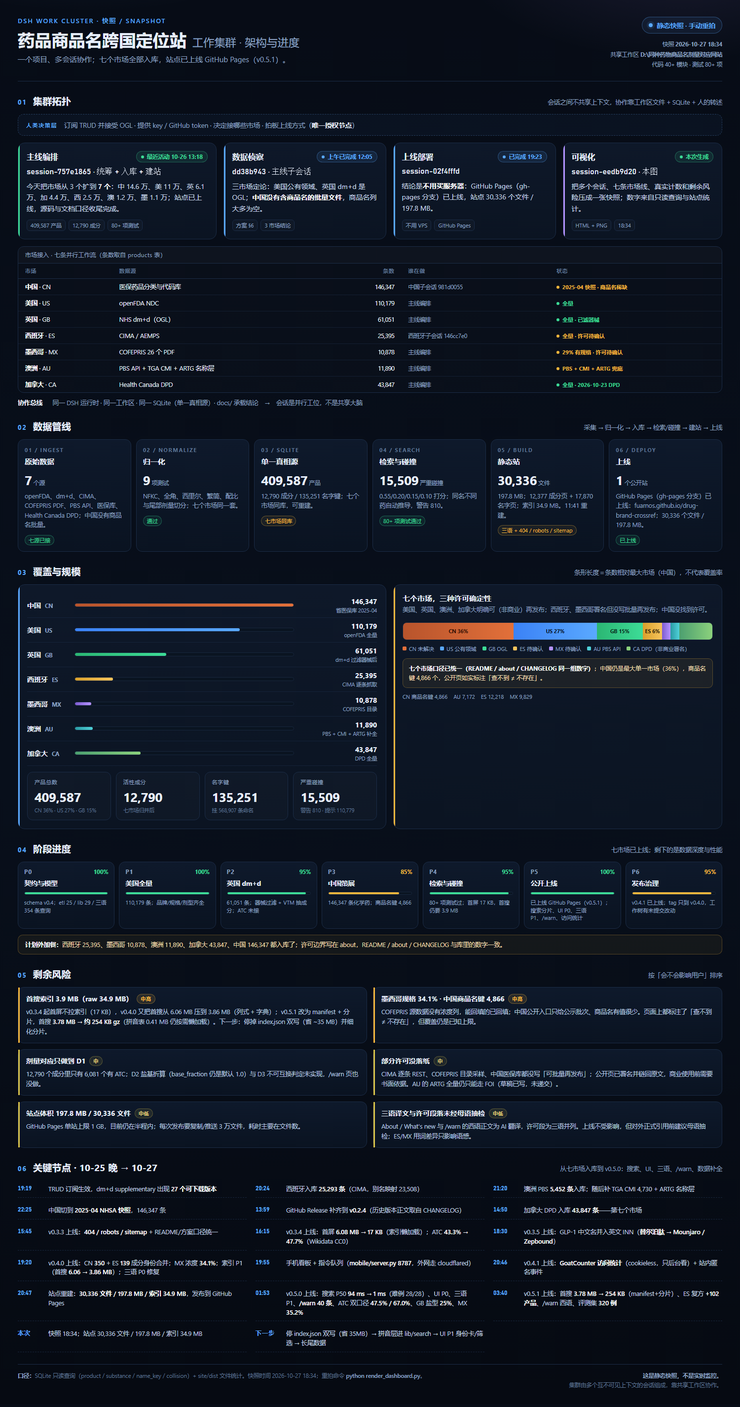
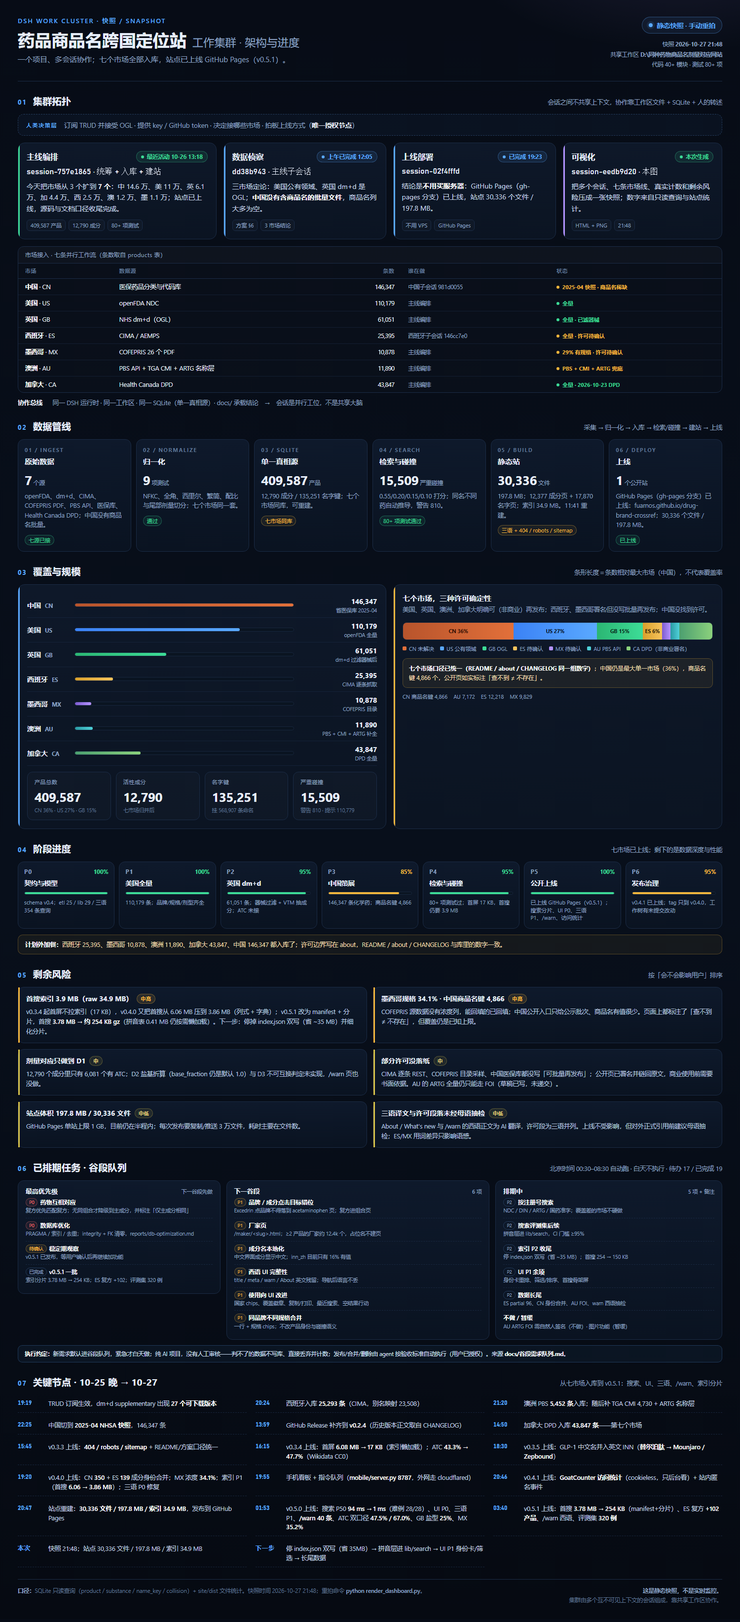
v0.5.2: fix blank warnings on zh/es (lang-block display fallback)
- apply() set style.display='' which fell back to CSS .lang-block{display:none}; use explicit 'block' for matching language block
- /warn and ingredient-page warning summaries now visible in zh/es; en unchanged
- includes queue/dashboard doc updates

diff --git a/docs/工作集群-架构与进度.html b/docs/工作集群-架构与进度.html
@@ -157,6 +157,21 @@
   .risk p{font-size:12.5px;color:#b9c9e2;line-height:1.6;margin-top:6px}
   .risk p b{color:#fff;font-weight:600}
 
+  .queue{display:grid;grid-template-columns:1fr 1.3fr 1.12fr;gap:12px}
+  .qbox{border:1px solid var(--line);border-radius:12px;background:linear-gradient(180deg,#0e192b,#0a1321);padding:12px 15px;align-self:start}
+  .qbox h3{font-size:13px;font-weight:650;display:flex;justify-content:space-between;align-items:baseline}
+  .qbox h3 span{font-size:10.5px;color:var(--muted);font-weight:500}
+  .qitem{padding:6px 0;border-bottom:1px dashed rgba(27,44,70,.8);font-size:12px;line-height:1.45;color:#c2d2e9}
+  .qitem:last-child{border-bottom:none}
+  .qitem b{color:#fff;font-weight:600}
+  .qitem .meta{display:block;font-size:10.5px;color:var(--muted);margin-top:1px}
+  .qtag{display:inline-block;font-size:9.5px;padding:1px 6px;border-radius:999px;margin-right:5px;vertical-align:1px}
+  .qtag.hi{color:var(--red);border:1px solid rgba(255,111,111,.35);background:rgba(255,111,111,.08)}
+  .qtag.mid{color:var(--amber);border:1px solid rgba(246,183,60,.35);background:rgba(246,183,60,.08)}
+  .qtag.lo{color:var(--muted);border:1px solid var(--line2)}
+  .qpolicy{margin-top:11px;padding:9px 13px;border-radius:9px;border:1px solid rgba(90,169,255,.25);background:rgba(90,169,255,.06);font-size:11.5px;color:#cfe0f7}
+  .qpolicy b{color:#fff}
+
   .tl{display:grid;grid-template-columns:repeat(3,1fr);gap:8px 18px}
   .tl .ev{display:grid;grid-template-columns:52px 1fr;gap:10px;padding:8px 0;border-bottom:1px dashed rgba(27,44,70,.8)}
   .tl .t{font-size:12px;color:var(--blue);font-weight:700;padding-top:1px}
@@ -179,7 +194,7 @@
   <div class="snap">
     <div class="live static"><i></i>静态快照 · 手动重拍</div>
     <div class="time">
-      快照 <b>2026-10-27 18:34</b><br>
+      快照 <b>2026-10-27 21:48</b><br>
       共享工作区 <b>D:\同种药物商品名剂量对应网站</b><br>
       代码 40+ 模块 · 测试 80+ 项
     </div>
@@ -215,7 +230,7 @@
       <div class="role"><span class="name">可视化</span><span class="pill run"><i></i>本次生成</span></div>
       <div class="sid mono">session-eedb9d20 · 本图</div>
       <div class="task">把多个会话、七条市场线、真实计数和剩余风险压成一张快照；数字来自只读查询与站点统计。</div>
-      <div class="chips"><span class="chip">HTML + PNG</span><span class="chip">18:34</span></div>
+      <div class="chips"><span class="chip">HTML + PNG</span><span class="chip">21:48</span></div>
     </div>
   </div>
 
@@ -425,7 +440,39 @@
 </section>
 
 <section>
-  <div class="sec-head"><span class="no">06</span><h2>关键节点 · 10-25 晚 → 10-27</h2><span class="hint">从七市场入库到 v0.5.0：搜索、UI、三语、/warn、数据补全</span></div>
+  <div class="sec-head"><span class="no">06</span><h2>已排期任务 · 谷段队列</h2><span class="hint">北京时间 00:30–08:30 自动跑 · 白天不执行 · 待办 17 / 已完成 19</span></div>
+  <div class="queue">
+    <div class="qbox">
+      <h3>最高优先级 <span>下一谷段先做</span></h3>
+      <div class="qitem"><span class="qtag hi">P0</span><b>药物互相对应</b><span class="meta">复方优先匹配复方；无同组合才降级到主成分，并标注「仅主成分相同」</span></div>
+      <div class="qitem"><span class="qtag hi">P0</span><b>数据库优化</b><span class="meta">PRAGMA / 索引 / 去重；integrity + FK 清零，reports/db-optimization.md</span></div>
+      <div class="qitem"><span class="qtag mid">待确认</span><b>稳定期观察</b><span class="meta">v0.5.1 已发布，等用户确认后再继续加功能</span></div>
+      <div class="qitem"><span class="qtag lo">已完成</span><b>v0.5.1 一批</b><span class="meta">索引分片 3.78 MB → 254 KB；ES 复方 +102；评测集 320 例</span></div>
+    </div>
+    <div class="qbox">
+      <h3>下一谷段 <span>6 项</span></h3>
+      <div class="qitem"><span class="qtag mid">P1</span><b>品牌 / 成分点击目标错位</b><span class="meta">Excedrin 点品牌不得落到 acetaminophen 页；复方进组合页</span></div>
+      <div class="qitem"><span class="qtag mid">P1</span><b>厂家页</b><span class="meta">/maker/&lt;slug&gt;.html；≥2 产品的厂家约 12.4k 个，占位名不建页</span></div>
+      <div class="qitem"><span class="qtag mid">P1</span><b>成分名本地化</b><span class="meta">中文界面成分显示中文；inn_zh 目前只有 16% 有值</span></div>
+      <div class="qitem"><span class="qtag mid">P1</span><b>西语 UI 完整性</b><span class="meta">title / meta / warn / About 英文残留；导航后语言不丢</span></div>
+      <div class="qitem"><span class="qtag mid">P1</span><b>使用向 UI 改进</b><span class="meta">国家 chips、覆盖徽章、复制/打印、最近搜索、空结果行动</span></div>
+      <div class="qitem"><span class="qtag mid">P1</span><b>同品牌不同规格合并</b><span class="meta">一行 + 规格 chips；不改产品身份与碰撞语义</span></div>
+    </div>
+    <div class="qbox">
+      <h3>排期中 <span>5 项 + 备注</span></h3>
+      <div class="qitem"><span class="qtag lo">P2</span><b>按注册号搜索</b><span class="meta">NDC / DIN / ARTG / 国药准字；覆盖差的市场不硬做</span></div>
+      <div class="qitem"><span class="qtag lo">P2</span><b>搜索评测集后续</b><span class="meta">拼音层进 lib/search，CI 门槛 ≥95%</span></div>
+      <div class="qitem"><span class="qtag lo">P2</span><b>索引 P2 收尾</b><span class="meta">停 index.json 双写（省 ~35 MB）；首搜 254 → 150 KB</span></div>
+      <div class="qitem"><span class="qtag lo">P2</span><b>UI P1 余项</b><span class="meta">身份卡重排、筛选/排序、首搜骨架屏</span></div>
+      <div class="qitem"><span class="qtag lo">P2</span><b>数据长尾</b><span class="meta">ES partial 96、CN 身份合并、AU FOI、warn 西语抽检</span></div>
+      <div class="qitem"><b>不做 / 暂缓</b><span class="meta">AU ARTG FOI 需自然人签名（不做）· 图片功能（暂缓）</span></div>
+    </div>
+  </div>
+  <div class="qpolicy"><b>执行约定：</b>新需求默认进谷段队列，紧急才白天做；纯 AI 项目，没有人工审核——判不了的数据不写库、直接丢弃并计数；发布/合并/删除由 agent 按验收标准自动执行（用户已授权）。来源 <b>docs/谷段需求队列.md</b>。</div>
+</section>
+
+<section>
+  <div class="sec-head"><span class="no">07</span><h2>关键节点 · 10-25 晚 → 10-27</h2><span class="hint">从七市场入库到 v0.5.1：搜索、UI、三语、/warn、索引分片</span></div>
   <div class="tl">
     <div class="ev"><div class="t mono">19:19</div><div class="x">TRUD 订阅生效，dm+d supplementary 出现 <b>27 个可下载版本</b></div></div>
     <div class="ev"><div class="t mono">20:24</div><div class="x">西班牙入库 <b>25,293 条</b>（CIMA，别名映射 23,508）</div></div>
@@ -442,13 +489,13 @@
     <div class="ev"><div class="t mono">20:47</div><div class="x">站点重建：<b>30,336 文件 / 197.8 MB / 索引 34.9 MB</b>，发布到 GitHub Pages</div></div>
     <div class="ev"><div class="t mono">01:53</div><div class="x">v0.5.0 上线：搜索 P50 <b>94 ms → 1 ms</b>（难例 28/28）、UI P0、三语 P1、<b>/warn 40 条</b>、ATC 双口径 <b>47.5% / 67.0%</b>、GB 盐型 <b>25%</b>、MX <b>35.2%</b></div></div>
     <div class="ev"><div class="t mono">03:40</div><div class="x">v0.5.1 上线：首搜 <b>3.78 MB → 254 KB</b>（manifest+分片）、ES 复方 <b>+102 产品</b>、/warn 西语、评测集 <b>320 例</b></div></div>
-    <div class="ev"><div class="t mono">本次</div><div class="x">快照 18:34；站点 30,336 文件 / 197.8 MB / 索引 34.9 MB</div></div>
+    <div class="ev"><div class="t mono">本次</div><div class="x">快照 21:48；站点 30,336 文件 / 197.8 MB / 索引 34.9 MB</div></div>
     <div class="ev"><div class="t mono">下一步</div><div class="x">停 index.json 双写（省 35MB）→ 拼音层进 lib/search → UI P1 身份卡/筛选 → 长尾数据</div></div>
   </div>
 </section>
 
 <footer>
-  <div><b>口径：</b>SQLite 只读查询（product / substance / name_key / collision）+ site/dist 文件统计。快照时间 2026-10-27 18:34；重拍命令 <b>python render_dashboard.py</b>。</div>
+  <div><b>口径：</b>SQLite 只读查询（product / substance / name_key / collision）+ site/dist 文件统计。快照时间 2026-10-27 21:48；重拍命令 <b>python render_dashboard.py</b>。</div>
   <div style="text-align:right"><b>这是静态快照，不是实时监控。</b><br>集群由多个互不可见上下文的会话组成，靠共享工作区协作。</div>
 </footer>
 

diff --git a/docs/dashboard.template.html b/docs/dashboard.template.html
@@ -157,6 +157,21 @@
   .risk p{font-size:12.5px;color:#b9c9e2;line-height:1.6;margin-top:6px}
   .risk p b{color:#fff;font-weight:600}
 
+  .queue{display:grid;grid-template-columns:1fr 1.3fr 1.12fr;gap:12px}
+  .qbox{border:1px solid var(--line);border-radius:12px;background:linear-gradient(180deg,#0e192b,#0a1321);padding:12px 15px;align-self:start}
+  .qbox h3{font-size:13px;font-weight:650;display:flex;justify-content:space-between;align-items:baseline}
+  .qbox h3 span{font-size:10.5px;color:var(--muted);font-weight:500}
+  .qitem{padding:6px 0;border-bottom:1px dashed rgba(27,44,70,.8);font-size:12px;line-height:1.45;color:#c2d2e9}
+  .qitem:last-child{border-bottom:none}
+  .qitem b{color:#fff;font-weight:600}
+  .qitem .meta{display:block;font-size:10.5px;color:var(--muted);margin-top:1px}
+  .qtag{display:inline-block;font-size:9.5px;padding:1px 6px;border-radius:999px;margin-right:5px;vertical-align:1px}
+  .qtag.hi{color:var(--red);border:1px solid rgba(255,111,111,.35);background:rgba(255,111,111,.08)}
+  .qtag.mid{color:var(--amber);border:1px solid rgba(246,183,60,.35);background:rgba(246,183,60,.08)}
+  .qtag.lo{color:var(--muted);border:1px solid var(--line2)}
+  .qpolicy{margin-top:11px;padding:9px 13px;border-radius:9px;border:1px solid rgba(90,169,255,.25);background:rgba(90,169,255,.06);font-size:11.5px;color:#cfe0f7}
+  .qpolicy b{color:#fff}
+
   .tl{display:grid;grid-template-columns:repeat(3,1fr);gap:8px 18px}
   .tl .ev{display:grid;grid-template-columns:52px 1fr;gap:10px;padding:8px 0;border-bottom:1px dashed rgba(27,44,70,.8)}
   .tl .t{font-size:12px;color:var(--blue);font-weight:700;padding-top:1px}
@@ -425,7 +440,39 @@
 </section>
 
 <section>
-  <div class="sec-head"><span class="no">06</span><h2>关键节点 · 10-25 晚 → 10-27</h2><span class="hint">从七市场入库到 v0.5.0：搜索、UI、三语、/warn、数据补全</span></div>
+  <div class="sec-head"><span class="no">06</span><h2>已排期任务 · 谷段队列</h2><span class="hint">北京时间 00:30–08:30 自动跑 · 白天不执行 · 待办 {{QUEUE_TODO}} / 已完成 {{QUEUE_DONE}}</span></div>
+  <div class="queue">
+    <div class="qbox">
+      <h3>最高优先级 <span>下一谷段先做</span></h3>
+      <div class="qitem"><span class="qtag hi">P0</span><b>药物互相对应</b><span class="meta">复方优先匹配复方；无同组合才降级到主成分，并标注「仅主成分相同」</span></div>
+      <div class="qitem"><span class="qtag hi">P0</span><b>数据库优化</b><span class="meta">PRAGMA / 索引 / 去重；integrity + FK 清零，reports/db-optimization.md</span></div>
+      <div class="qitem"><span class="qtag mid">待确认</span><b>稳定期观察</b><span class="meta">v0.5.1 已发布，等用户确认后再继续加功能</span></div>
+      <div class="qitem"><span class="qtag lo">已完成</span><b>v0.5.1 一批</b><span class="meta">索引分片 3.78 MB → 254 KB；ES 复方 +102；评测集 320 例</span></div>
+    </div>
+    <div class="qbox">
+      <h3>下一谷段 <span>6 项</span></h3>
+      <div class="qitem"><span class="qtag mid">P1</span><b>品牌 / 成分点击目标错位</b><span class="meta">Excedrin 点品牌不得落到 acetaminophen 页；复方进组合页</span></div>
+      <div class="qitem"><span class="qtag mid">P1</span><b>厂家页</b><span class="meta">/maker/&lt;slug&gt;.html；≥2 产品的厂家约 12.4k 个，占位名不建页</span></div>
+      <div class="qitem"><span class="qtag mid">P1</span><b>成分名本地化</b><span class="meta">中文界面成分显示中文；inn_zh 目前只有 16% 有值</span></div>
+      <div class="qitem"><span class="qtag mid">P1</span><b>西语 UI 完整性</b><span class="meta">title / meta / warn / About 英文残留；导航后语言不丢</span></div>
+      <div class="qitem"><span class="qtag mid">P1</span><b>使用向 UI 改进</b><span class="meta">国家 chips、覆盖徽章、复制/打印、最近搜索、空结果行动</span></div>
+      <div class="qitem"><span class="qtag mid">P1</span><b>同品牌不同规格合并</b><span class="meta">一行 + 规格 chips；不改产品身份与碰撞语义</span></div>
+    </div>
+    <div class="qbox">
+      <h3>排期中 <span>5 项 + 备注</span></h3>
+      <div class="qitem"><span class="qtag lo">P2</span><b>按注册号搜索</b><span class="meta">NDC / DIN / ARTG / 国药准字；覆盖差的市场不硬做</span></div>
+      <div class="qitem"><span class="qtag lo">P2</span><b>搜索评测集后续</b><span class="meta">拼音层进 lib/search，CI 门槛 ≥95%</span></div>
+      <div class="qitem"><span class="qtag lo">P2</span><b>索引 P2 收尾</b><span class="meta">停 index.json 双写（省 ~35 MB）；首搜 254 → 150 KB</span></div>
+      <div class="qitem"><span class="qtag lo">P2</span><b>UI P1 余项</b><span class="meta">身份卡重排、筛选/排序、首搜骨架屏</span></div>
+      <div class="qitem"><span class="qtag lo">P2</span><b>数据长尾</b><span class="meta">ES partial 96、CN 身份合并、AU FOI、warn 西语抽检</span></div>
+      <div class="qitem"><b>不做 / 暂缓</b><span class="meta">AU ARTG FOI 需自然人签名（不做）· 图片功能（暂缓）</span></div>
+    </div>
+  </div>
+  <div class="qpolicy"><b>执行约定：</b>新需求默认进谷段队列，紧急才白天做；纯 AI 项目，没有人工审核——判不了的数据不写库、直接丢弃并计数；发布/合并/删除由 agent 按验收标准自动执行（用户已授权）。来源 <b>docs/谷段需求队列.md</b>。</div>
+</section>
+
+<section>
+  <div class="sec-head"><span class="no">07</span><h2>关键节点 · 10-25 晚 → 10-27</h2><span class="hint">从七市场入库到 v0.5.1：搜索、UI、三语、/warn、索引分片</span></div>
   <div class="tl">
     <div class="ev"><div class="t mono">19:19</div><div class="x">TRUD 订阅生效，dm+d supplementary 出现 <b>27 个可下载版本</b></div></div>
     <div class="ev"><div class="t mono">20:24</div><div class="x">西班牙入库 <b>25,293 条</b>（CIMA，别名映射 23,508）</div></div>

diff --git a/render_dashboard.py b/render_dashboard.py
@@ -34,6 +34,7 @@ DIST = ROOT / "site" / "dist"
 TEMPLATE = ROOT / "docs" / "dashboard.template.html"
 OUT_HTML = ROOT / "docs" / "工作集群-架构与进度.html"
 OUT_PNG = ROOT / "docs" / "img" / "cluster-progress.png"
+QUEUE = ROOT / "docs" / "谷段需求队列.md"
 PAGE_LIMIT = 20_000
 
 BROWSERS = [
@@ -158,6 +159,14 @@ def pct(part: int, whole: int, digits: int = 1) -> str:
     return f"{part / whole * 100:.{digits}f}" if whole else "0"
 
 
+def queue_stats() -> tuple[int, int]:
+    """谷段队列的待办 / 已完成条数，直接从队列文件数。"""
+    if not QUEUE.exists():
+        return (0, 0)
+    text = QUEUE.read_text(encoding="utf-8")
+    return text.count("- [ ]"), text.count("- [x]")
+
+
 def build_tokens(db: dict, dist: dict) -> dict[str, str]:
     now = datetime.now().astimezone()
     us, gb, es, mx, au, cn, ca, total = (db["US"], db["GB"], db["ES"], db["MX"],
@@ -166,6 +175,7 @@ def build_tokens(db: dict, dist: dict) -> dict[str, str]:
     dmd_drop = max(0, dmd_in - dmd_kept)
     files = int(dist["files"])
     size_mb = int(dist["size"]) / 1e6
+    q_todo, q_done = queue_stats()
 
     keep_pct = pct(dmd_kept, dmd_in)
     drop_pct = pct(dmd_drop, dmd_in)
@@ -246,6 +256,8 @@ def build_tokens(db: dict, dist: dict) -> dict[str, str]:
         "BUILD_TIME": str(dist["build_time"]),
         "DEPLOY_NOTE": deploy_note,
         "P5_NOTE": p5_note,
+        "QUEUE_TODO": str(q_todo),
+        "QUEUE_DONE": str(q_done),
     }
 
 
@@ -300,7 +312,7 @@ def shoot(html: Path, png: Path, height: int | None) -> bool:
 
     probe = png.parent / "_probe.png"
     if height is None:
-        if not run(probe, 3000):
+        if not run(probe, 3800):
             return False
         measured = measure(probe)
         if measured:

diff --git a/site/build.py b/site/build.py
@@ -3694,7 +3694,7 @@ def main() -> None:
     document.querySelectorAll('[data-i18n-html]').forEach(function(el){ el.innerHTML = window.T(el.dataset.i18nHtml); });
     // /warn 与成分页的警示正文是数据行（zh/en/es 各一份），按当前语言只显示对应块。
     document.querySelectorAll('[data-lang-block]').forEach(function(el){
-      el.style.display = (el.dataset.langBlock === window.LANG) ? '' : 'none';
+      el.style.display = (el.dataset.langBlock === window.LANG) ? 'block' : 'none';
     });
     document.querySelectorAll('[data-ph]').forEach(function(el){ el.placeholder = window.T(el.dataset.ph); });
     document.querySelectorAll('.langs a').forEach(function(a){

diff --git a/docs/谷段需求队列.md b/docs/谷段需求队列.md
@@ -12,12 +12,71 @@
 > 4) 发布/合并/删除等决策由 agent 按本文件验收标准自动执行（用户已授权），不再等人工拍板。
 > 用户只提供方向与授权，不做逐条复核劳动力。
 >
-> **范围约束（用户 2026-10-26）：只做现有三种语言（en/zh/es）与现有 7 个市场；俗名只收合法药品，毒品/娱乐性用药一律排除。**
+> **范围约束（用户 2026-10-26 原限定；2026-10-27 更新）：** 语言/市场原限定 en/zh/es + 现有 7 市场；用户 2026-10-27 新增**繁体中文（zh-Hant）与台湾、香港、澳门**，其他新语言/市场仍不做。俗名只收合法药品，毒品/娱乐性用药一律排除。
 
 ## 待办
 
 <!-- 格式：- [ ] YYYY-MM-DD · 需求一句话 · 验收标准 · 涉及文件/禁改范围 -->
 
+- [ ] 2026-10-27 · **【下一谷段】厂家页（用户 2026-10-27：厂家也可以建自己的页面）**。数据审计：`product.mah` 有 **17,724** 个不同厂家、404,827 个产品带厂家；≥2 个产品的厂家 **12,360** 个、≥5 个的 7,557 个；头部厂家有 2,000–7,000 个产品；注意 `Special Order` 这类占位值需黑名单。
+  - 页面 `/maker/<slug>.html`：厂家名（含原文/别名）、覆盖国家、产品按国家/品牌分组的列表（品牌 → 品牌页/组合页，成分 → 药物页）、产品数与来源；三语标题与说明。
+  - 生成范围：先按「≥2 个产品」生成（约 12.4k 页）或全量 17.7k，视构建时间/体积决定；单产品厂家可暂不建页（行内不可点或显示纯文本）；占位/通用厂家名（Special Order 等）不建页。
+  - 结果页厂家列：每个厂家名可点（现在只显示第一个 + `+N`），`+N` 展开后每个厂家都有链接；手机端适配；三语不回归。
+  - 跨市场同集团：暂不自动合并不同法律实体（Haleon US Holdings LLC vs Haleon UK Trading Ltd），只按规范化后的厂家名建页；以后有可靠证据再做集团聚合。
+  - 验收：Excedrin 行点 `Lil Drug Store Products, Inc` / `Haleon US Holdings LLC` 能进各自厂家页并列出对应产品；无 404；页面数/体积/构建时间可控；三语与搜索测试不回归；报告 `reports/maker-pages.md`。与「品牌/成分点击目标错位」同批做（同属导航页体系）。
+- [ ] 2026-10-27 · **【下一谷段先修】品牌 / 成分点击目标错位（用户报 Excedrin Extra Strength 案例）**。现状：结果行品牌链接在没有同名页时回退到 `drug/<第一个成分>.html`，导致点品牌跳到单成分药物页（Excedrin Extra Strength → acetaminophen 页），与搜索的复方无关。正确规则：
+  - **点成分/药物（成分列的 `Acetaminophen + Aspirin + Caffeine` 等）→ 药物页**：单成分进 `drug/<substance>.html`；复方进「组合页」（按成分集合生成，展示同组合的全部品牌/国家/规格），**不得只跳第一个成分**。
+  - **点品牌（`Excedrin Extra Strength` 等）→ 品牌页**：有同名页进 `name/<key>.html`；没有则生成品牌页（仅 trade 名称、有实际产品者，控制页数）或显示为不可点文本，**禁止回退到药物页**。
+  - 审计 32,077 个「复方条目无独立页」的链接；`worth_page` 规则复核（Excedrin key 判 info 导致无页）；索引 `u` 字段与链接拼接保持 `.html` 一次；「展开全部品牌」行同样规则。
+  - 验收：搜 Excedrin Extra Strength，点品牌不得落到 acetaminophen 页；点成分进组合页；单成分品牌仍进药物页；无 404；三语与搜索测试不回归；报告 `reports/link-target-fix.md`。
+- [ ] 2026-10-27 · **【下一谷段】成分名本地化（中文界面成分仍显示英文）**（用户 2026-10-27 报）。现状：检索索引成分列只存 `substance.inn_en`，不随界面语言切换；`inn_zh` 仅 2,055/12,790（16%）有值，所以中文界面大多数成分只能显示英文。
+  - 数据：从 CN 产品通用名 + `data/cn_inn_overrides.csv` + 已合并的 CN/EN 成分关系回填 `inn_zh`（纯 AI 多源/规则，判不了留空）；审计可回填量。
+  - 索引：每条成分同时带 zh（以及 es 可用时）名称（如 `xz` 数组与 `x` 平行）；客户端按语言选，缺失回退英文并在解析条标注。
+  - 全链路：结果表、解析条、自动完成、品牌页/组合页/厂家页、成分页标题同步本地化。
+  - 验收：中文界面搜 Excedrin Extra Strength，成分列显示「对乙酰氨基酚 + 阿司匹林 + 咖啡因」（有中文名的成分）；覆盖率报告；三语测试不回归；报告 `reports/ingredient-i18n.md`。
+- [ ] 2026-10-27 · **【下一谷段先修】/warn 与成分页警示在中文/西语下整块空白（用户 2026-10-27 截图）**。根因已定位：i18n 的 `apply()` 里 `el.style.display = (匹配 ? '' : 'none')`；匹配时设为空串会**回落到 CSS `.lang-block{display:none}`**，于是非英文语言下 en 块被 JS 隐藏、zh/es 块又被 CSS 隐藏 → 整条警示空白（英文界面正常，因为 CSS 默认给 en 块 display:block）。修复：显式 `style.display = 匹配 ? 'block' : 'none'`（或移除 `.lang-block` 的默认 none，仅用 JS 控制），同时检查成分页顶部警示摘要；标题/meta 等本地化一并做。
+  - 验收：中文/西语界面打开 `/warn` 与成分页，40 条警示/摘要正常显示对应语言正文、不空白；英文界面不回归；headless Chrome 计算样式检查 display 非 none；报告 `reports/warn-lang-block-fix.md`。
+- [ ] 2026-10-27 · **【下一谷段】西班牙语 UI 完整性修复**（用户 2026-10-27 报「西语 UI 占比很小」）。已用 headless Chrome 审计：首页 `/es/` 全西语，但还有缺口：
+  1) 页面 `<title>` / meta 仍是英文（如 `Warnings · Medicine Brand Cross-Reference`、`Easily confused drug names · ...`）——需按语言生成本地化标题/描述（静态 `/es/`、`/zh/` 与 `?lang=` 都覆盖）；
+  2) 成分页的 warning 块同时输出 en/zh/es 三段，西语页可能先显示英文段（语言块显隐逻辑要复核，`data-lang-block` 默认与切换）；
+  3) `/warn` 页英文占比高（标题/正文/来源链接文案），需核对 40 条警示的西语渲染是否真的生效；
+  4) About 页残留英文片段需逐段判定（哪些是 FDA/ISMP/INN 等专有名词可保留，哪些是未翻译）；
+  5) 静态页 `/es/` 只有 index 副本，其他页依赖 `?lang=es`/localStorage，需确认导航后语言不丢。
+  - 验收：headless Chrome 渲染 `?lang=es` 的首页/成分页/About/warn/confused/whats-new，已知 UI 英文串清零（专有名词白名单除外）；标题/描述本地化；三语测试不回归；报告 `reports/es-ui-audit.md`。
+
+- [ ] 2026-10-27 · **按注册号搜索（批准文号 / NDC / DIN / ARTG ID）**（用户 2026-10-27：可以做，但「收益可能不大」）。实现方式二选一，**默认并入主搜索**：解析条自动识别号码格式（`国药准字…`、`NDC xxxx-xxxx-xx`、`DIN 8 位`、`ARTG ID` 数字），命中则按 `product.approval_id`/产品号查行；不命中号码格式时完全不影响现有名称搜索。若实测误判/歧义多，再退化为「按号搜」切换开关。
+  - 先做覆盖审计：各市场 `approval_id` 非空率与样例（US NDA/ANDA、CN 批准文号、CA DIN、AU ARTG ID、GB/ES/MX 是否可用）；覆盖差的市场在解析条提示「该市场暂不支持按号搜」，不硬做。
+  - 验收：每市场 3–5 个真实号码命中正确产品；号码不命中时给提示、不误当药名；名称搜索不回归；三语提示同步；报告 `reports/id-search.md`。优先级：中低（排在复方对应/数据库优化/合并显示之后，用户认可收益可能不大）。
+- [ ] 2026-10-27 · **【下一谷段】使用向 UI 改进（用户 2026-10-27 确认可做）**：结果/身份卡加一键国家跳转、国家覆盖徽章+数据截止日、复制链接/打印、最近搜索、状态可视化；**国家标识用「国旗 + 字母代码」组合**（Windows/部分浏览器不渲染国旗 emoji，所以以 ISO 字母代码为主，小旗帜用内联 SVG 或 emoji+fallback，保证任何平台都认得出）。
+  - ① 一键跳转：结果行加国家 chips（如 `🇺🇸 US` `🇬🇧 GB` `🇨🇳 CN`），点击直接切到该国视图（复用现有国家解析逻辑），不重置查询；该国无匹配时沿用「该市场没有以这个名字上架的产品」提示。
+  - ② 覆盖徽章 + 数据时间：结果/身份卡顶部显示「US · GB · CA 有收录；ES · MX 无」；数据截止日取 `source.data_as_of`（各市场可能不同），点击/悬停显示明细，减少「查不到 = 没有」的误解。
+  - ③ 复制链接 / 打印：结果页与身份卡加「复制链接」按钮（clipboard API + 回退 + toast）；加 `@media print` 样式（隐藏导航/搜索/页脚，白底大字），身份卡可直接打印。
+  - ④ 最近搜索：localStorage 保存最近 5–10 条（q/lang/时间），首页展示、可单条删除与清空；不上传、不涉及账号；跨语言保留但显示当前语言标题。
+  - ⑤ 状态可视化：active/discontinued/withdrawn 用「颜色 + 文字」标签（绿/黄/红），结果行与身份卡都显示，附图例；不只用颜色表达（色盲可读）。
+  - ⑥ 空结果可行动：给「最接近的 3 个候选」+「同成分在其他国家的产品」+「报告这个查不到」（GitHub issue 预填查询词与页面状态）；无结果时不再只有免责声明。
+  - ⑦ 键盘快捷键：`/` 聚焦搜索、`Esc` 清空/关闭建议、`↑↓` 选建议、`Enter` 确认；不影响中文输入法组合键（composition 事件期间不拦截）。
+  - ⑧ 结果 facet 摘要：按国家 / 剂型 / 状态计数，点击即过滤（并入 UI P1 筛选；移动端折叠）。
+  - ⑨ 身份卡矩阵：国家 × 规格 × 剂型表格（可折叠），比长列表更易扫读；与 UI P1 身份卡重排合并做。
+  - ⑩ 来源徽章：每行显示数据来源（source）与链接到原始记录（source_url），配合 docs/许可清单.md；缺失来源链接时显示「来源未提供链接」。
+  - 验收：三语文案同步；375px 手机布局不溢出；DOM/静态测试覆盖复制、最近搜索、状态标签、国家 chips、空结果行动、快捷键、facet、来源徽章；打印样式用 Chrome headless 打印 PDF 抽查；搜索/三语测试不回归；报告 `reports/ui-usability-2.md`。优先级：排在复方对应/数据库优化/合并显示之后，可与 UI P1 合批（先做 ①–⑤，⑥–⑩ 随后）。
+- [ ] 2026-10-27 · **【下一谷段】同品牌 / 同药物不同规格合并显示**（用户 2026-10-27）。目标：结果页与身份卡不再把「同一品牌、同一成分集合、同一剂型」的不同规格/包装拆成很多重复行，改为一行 + 可展开的规格/包装选项；不改变产品身份与候选集语义，只改展示聚合。
+  - 合并键：品牌家族 + 成分集合（含配比）+ 剂型 + 释放机制；同一键下把不同 strength / pack size / 包装数量折叠成 chips（如「500 mg × 20/40/100 片」）；点击展开全部 SKU，仍可看到各自国家/状态/来源。
+  - 硬规则：不同成分集合、不同剂型/释放机制、不同国家状态（active/discontinued/withdrawn）不合并；不把单方与复方合并；不隐藏碰撞/警示；不改 product 主键与 `collision`。
+  - 数据现实：包装数量/规格在不同市场覆盖不同（US NDC 包装、CA/GB 部分、CN 批准文号、ES/MX 多为单条）；缺失时按可用字段降级（仅 strength 折叠），页面标注「部分市场无包装信息」。
+  - 验收：抽样 Tylenol/泰诺、metformin、阿莫西林克拉维酸等：同品牌多包装 → 一行 + N 个规格选项；展开后 SKU 数与原结果一致；手机端卡片适配；三语与搜索测试不回归；报告 `reports/display-grouping.md`。
+- [ ] 2026-10-27 · **【下一谷段最高优先级】药物互相对应**（用户明确：先做药物对应，图片暂不做；**复方优先匹配复方**）。目标：提升「同一成分/同一复方跨 7 市场」的链接率与正确率，减少孤立成分与半拆复方。
+  - **硬规则（用户 2026-10-27 明确）：复方优先匹配复方药物，不做单一活性成分对应。** 即：复方产品（≥2 个活性成分）的跨国对应先按「完整成分集合 + 规格/配比 + 剂型释放机制」匹配其他市场的**复方产品**；不允许把复方产品直接当成某个单方成分的产品去展示「等同对应」，也不允许用单方产品替代复方。**降级规则（用户补充）：若没有同组合复方，再按「主要活性成分」做降级匹配，并明确标注「仅主成分相同，不是同一复方」，不能标成等同。** 主要活性成分定义要确定性：按注册/说明书成分顺序第一个（缺失时按强度最大），记录判定依据；页面不得把降级结果说成同一复方。
+  - 实现要点：为每个产品计算 combo 签名（排序后的成分 substance_id 集合 + 各成分强度/配比 + 剂型/释放机制）；单成分产品走现有单方对应；复方按签名精确/高重叠匹配（同成分集合优先，其次 ≥80% 重叠且无冲突成分，明确标注「部分成分相同」）；`entity_type` 区分 combination；匹配结果写入可审计表/视图，不在页面端临时猜。
+  - 复方拆成分只用于**确认复方自身的成分组成**（CN 约 6,010 个「复方名只挂 1 个成分」、ES partial 96 条），拆出的成分用于 combo 签名，**不得因此把复方挂到单成分对应路径**。
+  - 审计：成分×市场覆盖矩阵；跨市场单方链接率；复方-复方匹配率（同集合/高重叠/无匹配）；`cn-*` 1,827 / `mx-es-*` 715 / 重复成分 27 对。
+  - 合并来源（纯 AI 多源定案）：CN 用 ATC level-4、WHO INN、中文旧称/药典表、规格剂型一致性；ES/MX 用 CIMA vtm、WHO INN 西语名、ATC；判不了的不写库、丢弃并计数。
+  - 验收：跨市场单方链接率 before/after；复方-复方匹配率与同集合匹配数；降级到主成分的结果必须带「仅主成分相同，不是同一复方」标注（抽样检查不得出现等同措辞）；`cn-*`/`mx-es-*` 减少数；抽样复方（二甲双胍+格列本脲、阿莫西林+克拉维酸、复方氨酚烷胺等）必须优先匹配同组合复方；三语测试与 320 例评测集不回归；`reports/cross-market-mapping.md`。
+- [ ] 2026-10-27 · **【下一谷段最高优先级】数据库优化**（用户明确）。目标：查询/构建更快、数据更干净、迁移可重复。
+  - PRAGMA/体检：`integrity_check`、`foreign_key_check`（当前存在历史 ingest_run→source FK 违规需清零或说明）、`ANALYZE`、`VACUUM`。
+  - 索引审计：对 build.py 的 SQL、`cli.py`、`db/check_data.py` 做 EXPLAIN QUERY PLAN，补缺失索引（product(country,status)、product_component(variant_id/substance_id)、name/alias、dose_warning status 等），避免过度索引；记录 before/after 计划与耗时。
+  - 去重/清理：27 对重复成分、1,305 个同盐 variant 歧义、空值/异常值；不手工改 collision。
+  - schema：`entity_type` 是否入库、`strength_basis`/`dose_warning` es 列一致性、migration 幂等复核。
+  - 验收：EXPLAIN before/after、构建与查询耗时、DB 大小、check_data、integrity/FK=0；报告 `reports/db-optimization.md`。
 - [ ] 2026-10-27 · **搜索评测集后续**：v2 基线已跑（320 例；must_hit Top-5 96.9%、Top-1 88.9%、零结果 40/40）；下一步把拼音层移植进 `lib/search.py`（整集预计 +15pp）、combo 15 条转 must_hit、扩 es 错拼/简繁素材；接 CI 门槛 ≥95%。
 - [ ] 2026-10-27 · **索引 P2 收尾**：停掉 `data/index.json` 双写（省 ~35MB、发布更快）；首搜 254KB 可再细分为 ~150KB（aliases 懒加载 + 更细分片）；`?legacy=1` 指向上一版。
 - [ ] 2026-10-27 · **UI P1 余项**：身份卡重排（成分摘要 + 按国家卡片 + 碰撞置顶）；筛选/排序（国家/剂型/释放/有无规格；相关度/包装数）；首搜骨架屏。
@@ -25,7 +84,56 @@
 - [ ] 2026-10-27 · **FOI 备注（不做）**：AU ARTG 的 FOI 需要自然人身份与签名，纯 AI 项目无法完成；等用户本人决定是否发。不排自动任务。
 - [ ] 2026-10-27 · **稳定期（等用户确认生效）**：v0.5.1 已发布；建议先冻结新功能，用 GoatCounter 真实搜索数据评估一轮再继续。
 
-## 已完成
+- [ ] 2026-10-27 · **图片功能（暂缓）**：用户 2026-10-27 明确「还是先做药物互相对应和数据库优化」，图片暂不做。未来可选：①剂型图标（自绘 SVG，无版权问题）②美国 DailyMed 标签图（public domain，先做 Top 500 覆盖率实验）③Pillbox 药片图（仅美国）。不做 AI 生成包装图/电商图。
+
+- [ ] 2026-10-27 · **【下一谷段】A 组：数据/对应质量改进（用户要求全排）**：
+  - A1 产品级详情展开行：结果行可展开看批准文号/NDC/DIN、包装、状态与日期、来源链接、原始记录；不新增 40 万页，折叠行实现。
+  - A2 ATC 码/类名搜索：输入 `C07AB02` 或 ATC 类名，列出对应成分/成分卡；复用现有 ATC 数据与索引。
+  - A3 盐型/释放差异上下文提示：结果行直接提示「该成分有 tartrate/succinate 等盐型/释放差异，不可毫克对毫克互换」，不只埋在成分页。
+  - A4 每市场覆盖与新鲜度页：US/GB/CN/ES/MX/AU/CA 产品数、规格覆盖、最后更新日期、已知缺口；三语。
+  - A5 数据来源逐行徽章：每行显示 source + 原始记录链接（与 UI 使用向 ⑩ 合并做，不重复）。
+- [ ] 2026-10-27 · **【下一谷段】B 组：使用体验改进（用户要求全排）**：
+  - B6 结果行「报告错误」快捷入口：预填当前查询/成分/产品到 GitHub issue。
+  - B7 结果导出 CSV / 复制表格：纯前端，给药师/研究者用。
+  - B8 对比模式：选 2–3 个产品并排看成分/规格/状态，只列事实、不做替代判断。
+  - B9 手机粘性搜索条 + 筛选底部抽屉：长列表不用滚回顶部。
+  - B10 术语表/缩写解释页：INN/BAN/USAN/ATC/MAH/DIN/NDC 三语。
+  - B11 分享卡片：页面标题本地化 + OpenGraph 摘要，分享时显示药名而非默认站名。
+- [ ] 2026-10-27 · **【持续改进·用户授权】谷段余额时间的默认动作**：用户 2026-10-27 明确「你能想到的都可以加，钱花完之前在谷段想办法做得更好用」。规则：每轮谷段完成当日计划与测试后，若时间/预算还有余额，**直接从下面「使用者向改进池」挑最高性价比项继续做并发版**，不必逐项等用户确认；版本数服从质量，早报列明新增版本与内容。
+- [ ] 2026-10-27 · **使用者向改进池（用户授权可加，按性价比排序）**：
+  - U1 首屏 3 步引导 + 真实示例（输入盒子名字 → 看成分 → 切国家）；首次访问展示，可关闭。
+  - U2 结果顶部「各国叫法」横排（US/GB/CN/ES/MX/AU/CA 一眼看完，不先选国家）。
+  - U3 界面标签本地化：剂型（tablet/片剂/tableta）、状态（discontinued/已停售）、国家名、单位在 zh/en/es 下统一。
+  - U4「复制标准名」按钮：复制 `INN + 规格 + 剂型`（如 `metoprolol succinate 50 mg ER tablet`）。
+  - U5 分享/截图友好卡片：分享时显示药名 + 成分 + 国家覆盖，替代默认站名。
+  - U6 PWA / 添加到主屏 + 离线缓存（常用药页可离线看）。
+  - U7 结果视角切换：按成分看 / 按品牌看（同品牌所有规格/市场）。
+  - U8（后期 v1.x）包装 OCR / 拍照识别：先不排，等核心稳定后再评估隐私与误识别。
+- [ ] 2026-10-27 · **【下一谷段】版本节奏：用户要求多版本更新**。目标 **7 个版本起步，不设上限**——有必要/有价值就继续增加版本；每个版本独立 CHANGELOG/build/publish/smoke：
+  - v0.5.2（开工 0–30 分钟）：/warn 与成分页警示空白热修（lang-block display bug）
+  - v0.5.3：品牌/成分点击目标修复 + 品牌页 + 组合页（最小版）
+  - v0.5.4：厂家页 + 来源徽章（A5）
+  - v0.5.5：中文成分名本地化 + 西语 UI 完整性 + What's new 三语
+  - v0.5.6：A1 产品详情展开 + A3 盐型提示 + B6 报告入口 + B7 CSV 导出
+  - v0.6.0：药物互相对应（复方优先复方/降级主成分）+ 数据库优化
+  - v0.6.1（stretch）：A2 ATC 搜索 + A4 覆盖页 + B8/B9/B10/B11
+  - 发布护栏：**版本数不设上限**（按价值与质量决定，有必要就继续发）；每个版本必须 smoke 通过；连续 2 次失败即停；早报列明「版本数 / 每版内容 / 回滚记录」。
+
+- [ ] 2026-10-27 · **【扩展接口·用户 2026-10-27：为台湾/繁体与未来欧盟预留】**。目标：新增市场/语言不改核心代码，只加注册项 + ETL + 文案。设计：
+  - **市场注册表**（`data/markets.json` 或 `lib/markets.py` 单一真相源）：code、名称（i18n key）、旗帜/字母、kind（country/region，如 EU）、parent、source_id、默认语言、启用状态、排序；schema 增加 `market` 表（code, kind, parent, name_key），`product.country` 外键指向它（替代每加市场重建 country CHECK 的迁移），init_db 做一次性迁移并保留回滚。
+  - **ETL 插件约定**：`etl/markets/<code>.py` 暴露 `fetch()/ingest()`，写标准 product/product_component/name 并登记 source/data_as_of；`etl/registry.py` 发现模块，`run_all.py` 按注册表循环；EU 未来可注册为 region（EMA 来源）或逐国。
+  - **语言注册表**（`data/languages.json`）：code、label、script(简/繁)、hreflang、默认国家、i18n 文件路径、简繁转换能力；新增语言只加文案与入口。
+  - **站点层**：国家选择器、chips、覆盖徽章、A4 覆盖页、sitemap/hreflang、About 计数全部从注册表生成，不硬编码 7 国；EU 预留 region 分组展示（如「EU（EMA）」）。
+  - **许可/来源扩展模板**：`docs/许可清单.md` 增加新源模板行；`source` 表迁移说明；新市场先许可审计再入库。
+  - **文档与测试**：`docs/市场扩展接口.md`（加市场/语言 N 步）+ 模板 ETL + 冒烟测试（用假市场注册验证 build 不炸）；现有 7 市场行为不变。
+  - 验收：用一个 dummy 市场/语言注册跑通构建（不发布数据），三语+繁中测试不回归；报告 `reports/extension-interface.md`。**排在 TW/繁中 P1 之前做**（否则 TW 会再硬编码一遍）。
+
+- [ ] 2026-10-27 · **【新增范围·用户 2026-10-27】台湾 + 繁体中文 + 香港/澳门**（覆盖此前「只用三种语言/七个市场」的旧约束；其他新语言/市场仍不做，但按「扩展接口」条目预留 EU 等未来扩展）。分阶段，每阶段独立发版：
+  - **P1 繁体中文 UI（zh-Hant）**：现有 180+ i18n 文案转繁体（OpenCC 规则表或自建 s2t 映射，专业术语人工校对：乙醯胺酚/乙醯氨基酚、prednisone 等）；新增语言入口「繁」；`/zh-hant/` 入口页 + hreflang；搜索输入繁体转简体归一（t2s）；品牌/成分显示保留原文（TW/HK 数据本身是繁体）。
+  - **P2 台湾市场**：TFDA 食藥署開放資料（藥品許可證資料集，data.gov.tw，政府資料開放授權條款-第1版，可再發布須署名）→ 新 ETL 入库；成分繁体名→INN 映射（复用 CN 映射 + 繁体归一 + TW 用语差异表，如 乙醯胺酚→acetaminophen、普拿疼→對乙醯氨基酚）；schema `country` CHECK 增加 TW（init_db 重建迁移）；国家 chip/覆盖徽章/A4 覆盖页同步；验收抽样（普拿疼、脈優、立普妥等）。
+  - **P3 香港/澳门**：先做**数据可得性与许可审计**（HK Drug Office 註冊藥劑製品、MO 藥物事務廳）；若有批量/可再發布就入库，否则只能做「链接/说明层」或暂缓，不硬造数据；许可结论写 docs/许可清单.md。
+  - **P4 收尾**：四语言测试矩阵（en/es/zh/zh-Hant）、hreflang/sitemap、搜索评测集加繁体用例、README/About/CHANGELOG 口径更新。
+  - 说明：这是范围扩张，预计 **2–4 个谷段**；优先 P1+P2（TW 数据最有把握），P3 先审计再决定。原「只用三种语言」约束由用户本次明确覆盖。
 
 <!-- 格式：- [x] YYYY-MM-DD · 需求 · 版本/commit · 验证结果 · 报告路径 -->
 

diff --git a/CHANGELOG.md b/CHANGELOG.md
@@ -4,6 +4,12 @@
 站点页脚、About 页、GitHub Release 三处保持同一个版本号；`/whats-new.html` 直接从这里生成。
 上线前先把本节写好，再建站、发布。
 
+## v0.5.2 — 2026-10-29
+
+- **修复 /warn 与成分页警示在中文/西语下空白**：语言块显隐把匹配项设为 `display:''`，
+  回落到 CSS 的 `display:none`，导致三块全隐藏；改为显式 `display:block`。
+  中文/西语现在能正常看到 40 条警示与成分页摘要，英文界面不变。
+
 ## v0.5.1 — 2026-10-27
 
 - **首搜体积 3.78 MB → 约 254 KB（gz）**：检索索引改为「manifest + 分片」，输入后只拉
